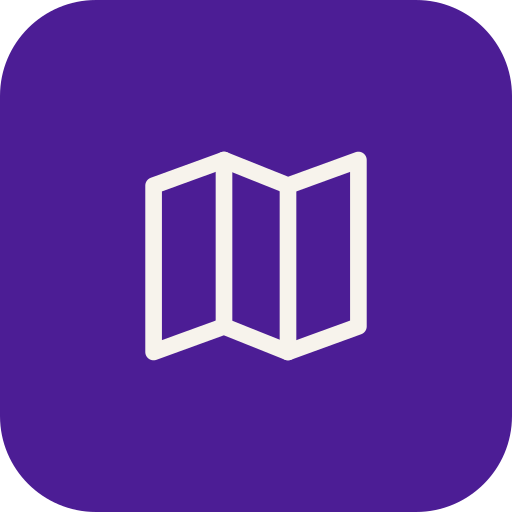
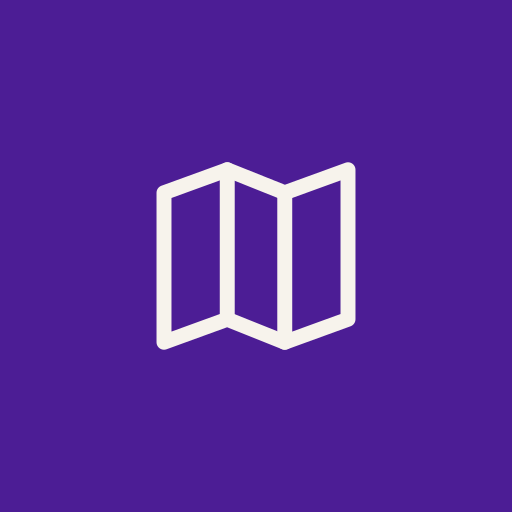
修复安卓自适应图标不是"全出血"格式
之前误用了带圆角的图去生成maskable图标，四角是透明的——不符合安卓要求
这张图必须铺满整个画布的规矩，系统套遮罩形状时可能露出四角空白或让图标
显得特别小。改用本来就给apple-touch-icon准备的、真正铺满整个方形画布的
那张图重新生成，像素验证过四角现在都不透明了。

diff --git a/CHANGELOG.md b/CHANGELOG.md
@@ -2,6 +2,10 @@
 
 按日期记录每次用户能感觉到的改动（新功能、修复、界面调整），不记录纯内部代码整理。最新的记录放在最上面。
 
+## 2026-08-27（修复：安卓自适应图标不是"全出血"格式）
+
+- 修复：装到安卓主屏幕的图标用的那张"自适应"底图，之前是从带圆角的图生成的，四个角是透明的——不符合安卓要求这张图必须铺满整个画布的规矩，系统自己套遮罩形状（各家手机不一样，圆形/圆角方形都有）时可能会露出四角空白或让图标显得特别小。改成用本来就给苹果图标准备的那张"铺满整个方形"的图生成，像素验证过四个角现在都是不透明的了。
+
 ## 2026-08-27（改进：账目列表按行程日期分组了）
 
 - 改进：账目页"全部"/"我的"两个视角的列表，之前是按记账先后顺序拍平排的，跟行程哪天没关系，多天行程账目一多，"回看第3天花了什么"只能整段划过去肉眼找。现在按行程日期分组，每个日期一个小节头（带当天小计），组内还是按原来记账的先后排。
